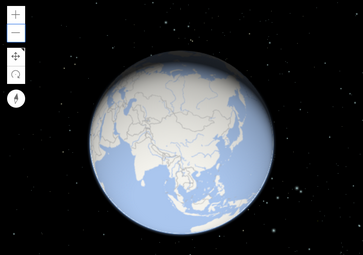
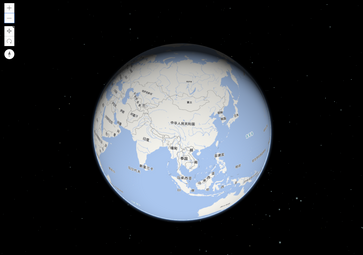
增加天地图影像(球面墨卡托)示例代码

diff --git a/latest/sample-code/index.html b/latest/sample-code/index.html
@@ -60,7 +60,11 @@
                     <div class="accordion-section"><h4 class="accordion-title">天地图</h4>
                         <nav class="accordion-content">
                             <a href="../../latest/sample-code/sandbox/index.html?sample=tianditu-vec_w"
-                               target="_blank" class="side-nav-link">天地图矢量(球面墨卡托)</a>
+                               target="_blank" class="side-nav-link">天地图矢量(球面墨卡托)-4.x</a>
+                        </nav>
+                        <nav class="accordion-content">
+                            <a href="../../latest/sample-code/sandbox/index.html?sample=tianditu-img_w"
+                               target="_blank" class="side-nav-link">天地图影像(球面墨卡托)-4.x</a>
                         </nav>
                     </div>
                 </aside>
@@ -103,7 +107,7 @@
                             <!-- Card Separator -->
                             <div class="block card animate-fade-in trailer-1">
                                 <figure class="card-image-wrap"><a
-                                        href="../../latest/sample-code/sandbox/index.html?sample=widgets-editor-basic"
+                                        href="../../latest/sample-code/sandbox/index.html?sample=tianditu-vec_w"
                                         target="_blank"><img
                                         class="card-image"
                                         src="../../assets/img/sample-code/thumbnails/tianditu-vec_w.png"
@@ -129,7 +133,33 @@
                                 </div>
                             </div>
                             <!-- Card Separator -->
-
+                            <div class="block card animate-fade-in trailer-1">
+                                <figure class="card-image-wrap"><a
+                                        href="../../latest/sample-code/sandbox/index.html?sample=tianditu-img_w"
+                                        target="_blank"><img
+                                        class="card-image"
+                                        src="../../assets/img/sample-code/thumbnails/tianditu-img_w.png"
+                                        alt="widgets-editor-basic"></a>
+                                </figure>
+                                <div class="card-content">
+                                    <p class="font-size--1 card-last trailer-1">天地图影像(球面墨卡托)</p>
+                                    <div class="open-out-container">
+                                        <button class="open-out-icon open-out-icon-hidden icon-ui-download js-btn-save-file"
+                                                data-save-file-name="tianditu-img_w"
+                                                data-save-file="../../latest/sample-code/tianditu-img_w/live/index.html"
+                                                title="Download"></button>
+                                        <a class="open-out-icon icon-ui-experimental"
+                                           href="../../latest/sample-code/sandbox/index.html?sample=tianditu-img_w"
+                                           target="_blank" title="sandbox"></a>
+                                        <a class="open-out-icon icon-ui-link-external js-btn-jsshare"
+                                           data-jsshare-url="../../latest/sample-code/tianditu-img_w/live/index.html"
+                                           target="_blank" title="codepen"></a>
+                                        <a class="open-out-icon icon-ui-browser"
+                                           href="../../latest/sample-code/tianditu-img_w/live/index.html"
+                                           target="_blank" title="live"></a>
+                                    </div>
+                                </div>
+                            </div>
 
                         </div>
                     </div>

diff --git a/latest/sample-code/tianditu-img_w/live/index.html b/latest/sample-code/tianditu-img_w/live/index.html
@@ -3,7 +3,7 @@
 <head>
     <meta charset="utf-8"/>
     <meta name="viewport" content="initial-scale=1,maximum-scale=1,user-scalable=no"/>
-    <title>天地图矢量(球面墨卡托) - 4.x</title>
+    <title>天地图影像(球面墨卡托) - 4.x</title>
 
     <link rel="stylesheet" href="https://js.arcgis.com/4.12/esri/themes/light/main.css"/>
     <script src="https://js.arcgis.com/4.12/"></script>
@@ -39,18 +39,18 @@
                 center: [-65, -15]
             });
 
-            //矢量地图(球面墨卡托投影)
+            //影像地图(球面墨卡托投影)
             var tiledLayer = new WebTileLayer({
                 urlTemplate:
-                tiandituBaseUrl + "/vec_w/wmts?SERVICE=WMTS&VERSION=1.0.0&REQUEST=GetTile&LAYER=vec&STYLE=default&FORMAT=tiles&TILEMATRIXSET=w&TILEMATRIX={level}&TILEROW={row}&TILECOL={col}&tk=" + token,
+                tiandituBaseUrl + "/img_w/wmts?SERVICE=WMTS&VERSION=1.0.0&REQUEST=GetTile&LAYER=img&STYLE=default&FORMAT=tiles&TILEMATRIXSET=w&TILEMATRIX={level}&TILEROW={row}&TILECOL={col}&tk=" + token,
                 subDomains:
                     ["t0", "t1", "t2", "t3", "t4", "t5", "t6", "t7"]
             });
 
-            //矢量注记(球面墨卡托投影)
+            //影像注记(球面墨卡托投影)
             var tiledLayerAnno = new WebTileLayer({
                 urlTemplate:
-                tiandituBaseUrl + "/cva_w/wmts?SERVICE=WMTS&VERSION=1.0.0&REQUEST=GetTile&LAYER=cva&STYLE=default&FORMAT=tiles&TILEMATRIXSET=w&TILEMATRIX={level}&TILEROW={row}&TILECOL={col}&tk=" + token,
+                tiandituBaseUrl + "/cia_w/wmts?SERVICE=WMTS&VERSION=1.0.0&REQUEST=GetTile&LAYER=cia&STYLE=default&FORMAT=tiles&TILEMATRIXSET=w&TILEMATRIX={level}&TILEROW={row}&TILECOL={col}&tk=" + token,
                 subDomains:
                     ["t0", "t1", "t2", "t3", "t4", "t5", "t6", "t7"]
             });
